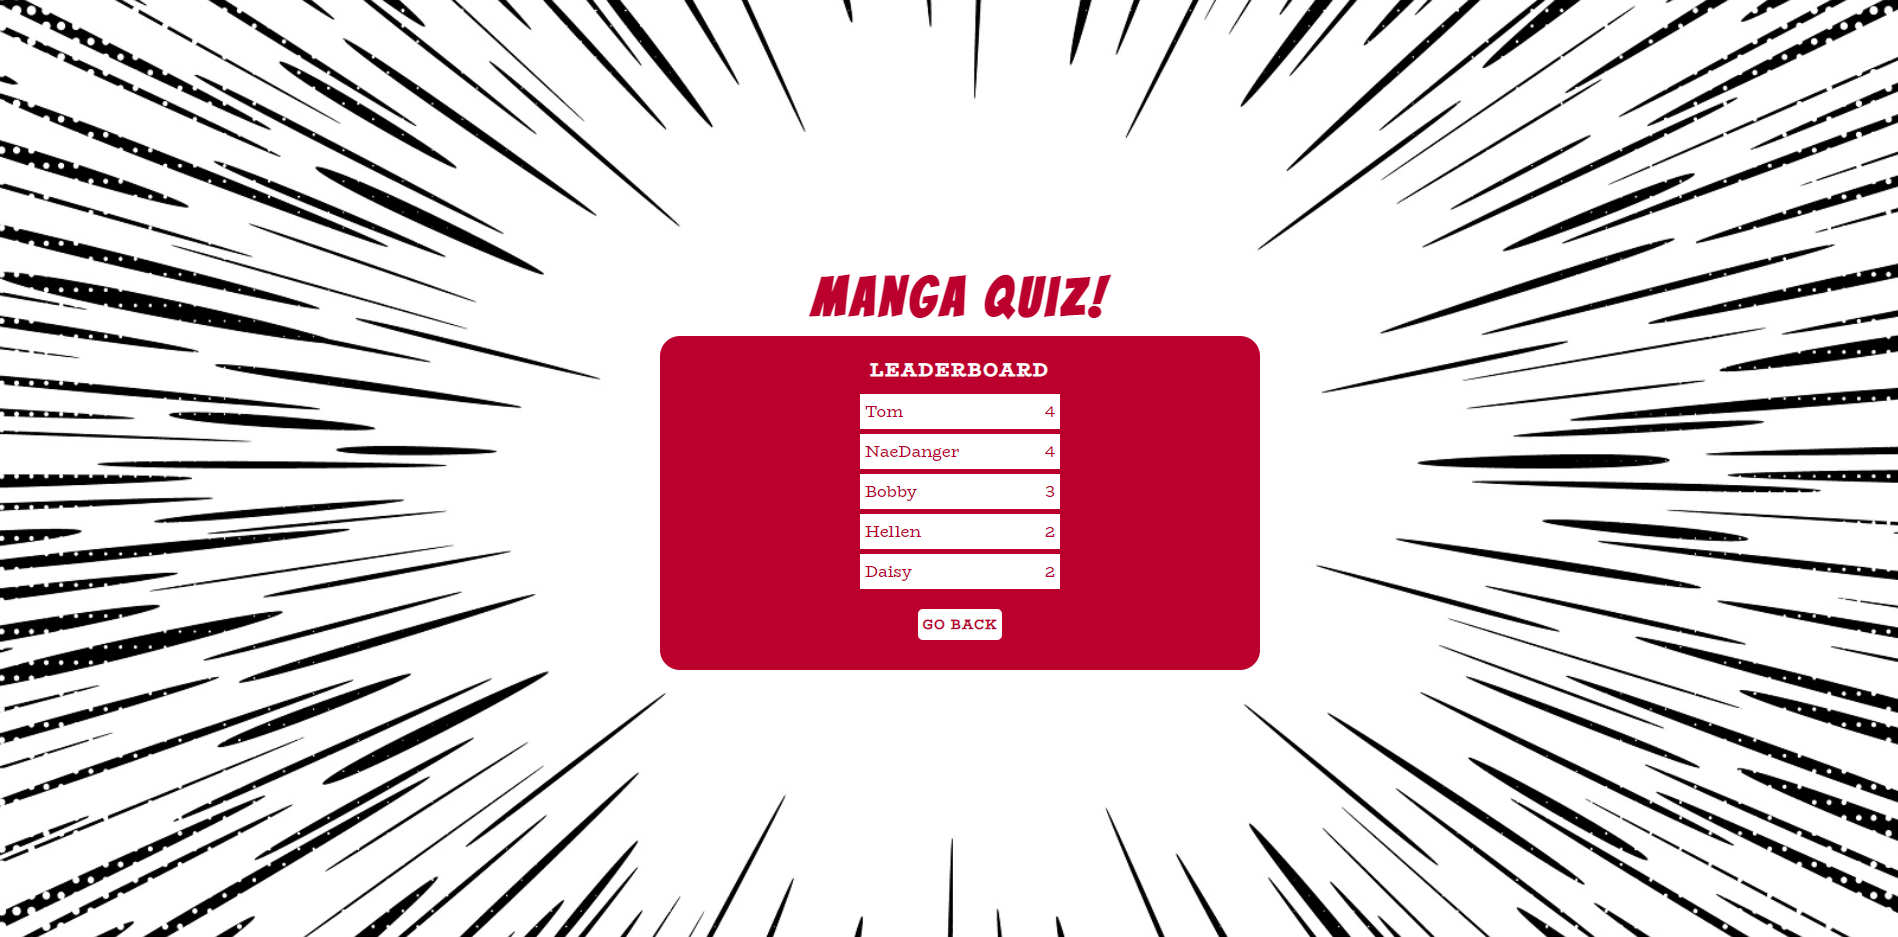
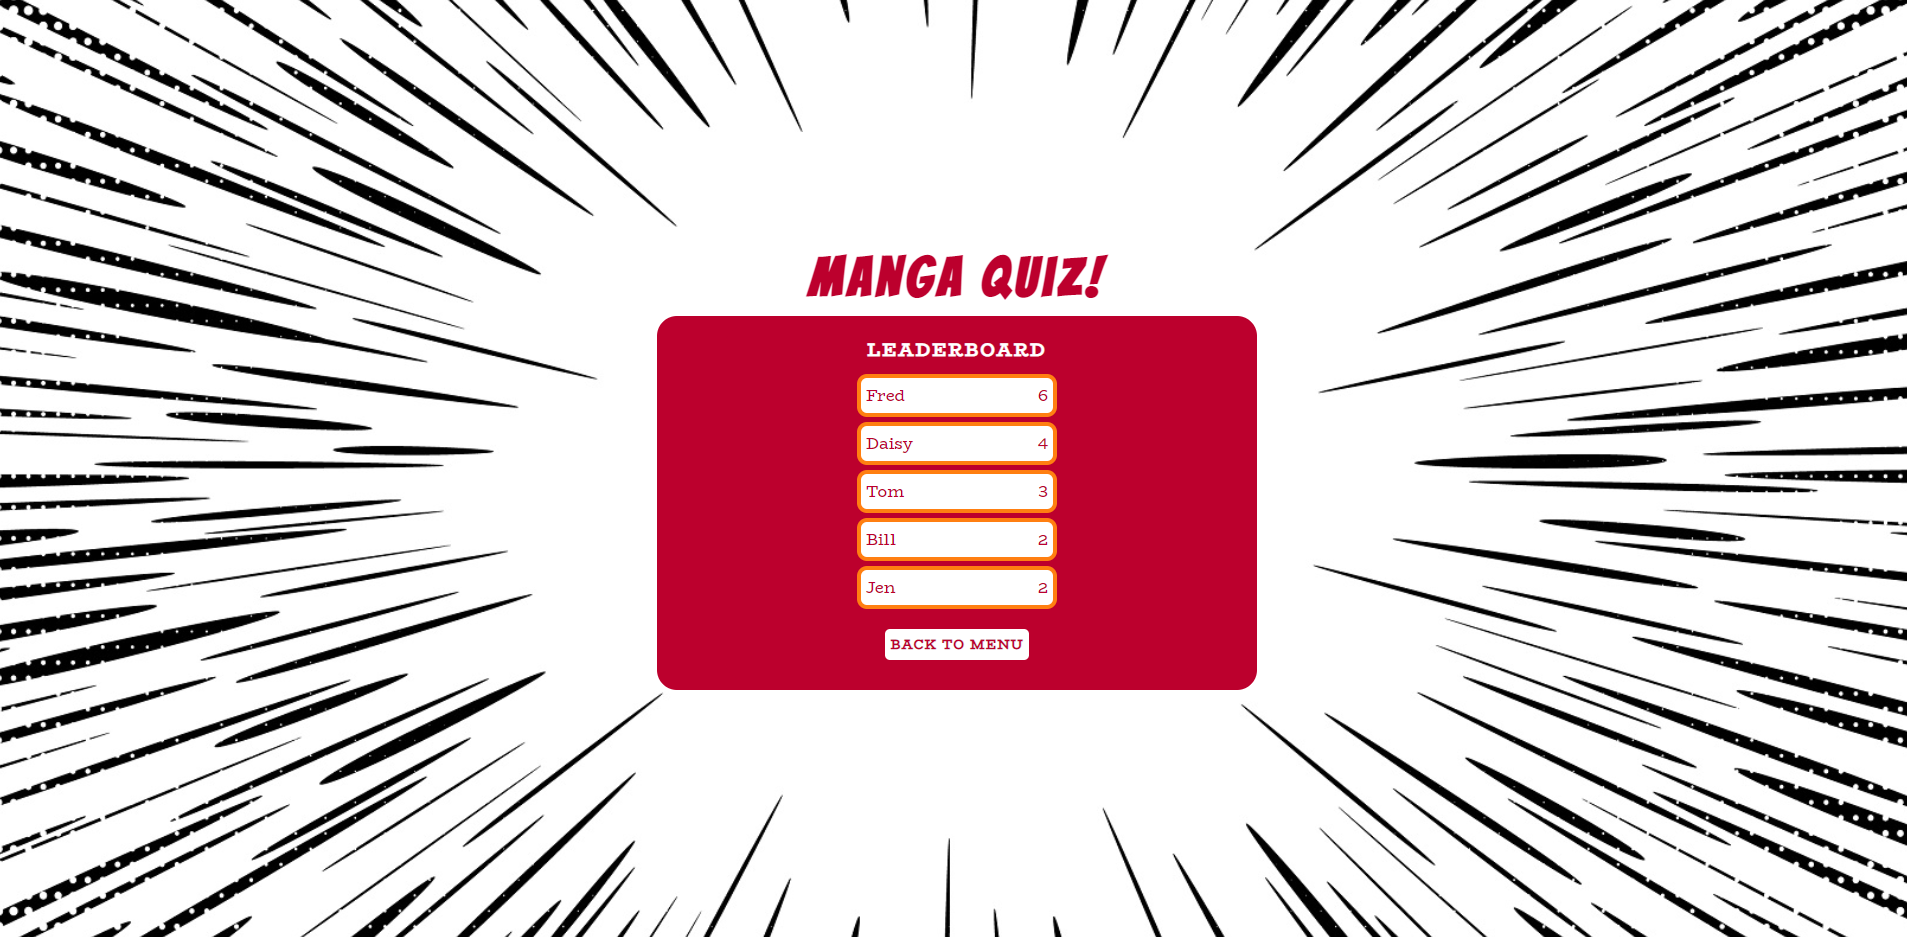
Updated leaderboard window section of readme

diff --git a/README.md b/README.md
@@ -117,7 +117,9 @@ The result window will show a congratulation, or commiseration message depending
 
 ### Leaderboard Window
 
-The leaderboard window can be accessed via a button on the welcome window. This will show the best 5 scores for the quiz. It will feature the username, score and position on the leaderboard for the user.
+The leaderboard window can be accessed via a button on the welcome window. It will also be opened upon submitting a score. This will show the best 5 scores for the quiz. It will feature the username and their score on the leaderboard.
+
+![Leaderboard Window](docs/screenshots/leaderboard-window.png)
 
 ## Testing
 
